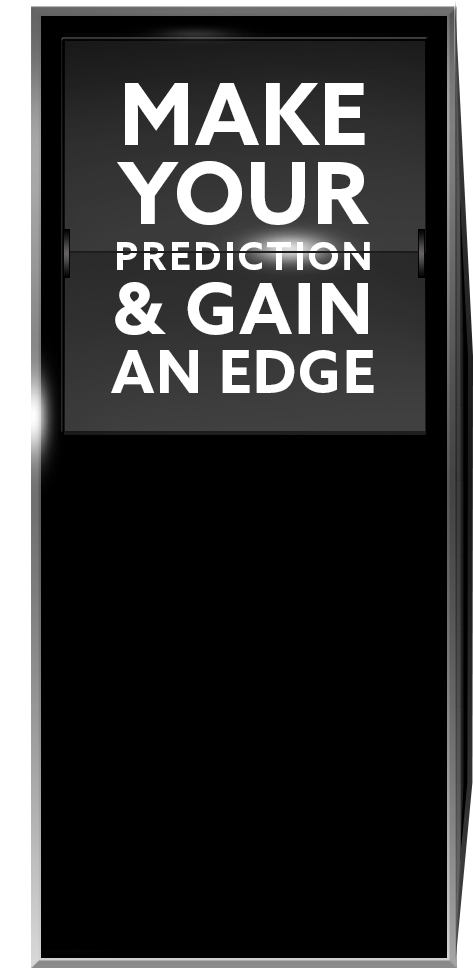
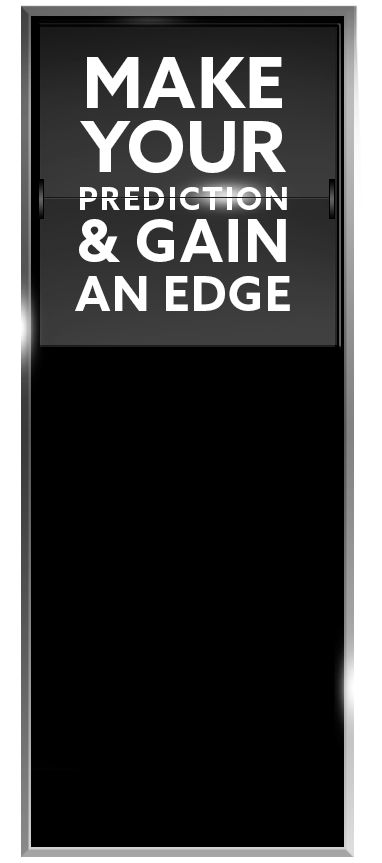
updated the featured blog section

Changed region(s): [[0.0576, 0.0, 1.0, 0.9942]]

diff --git a/themes/TCL2016/style.css b/themes/TCL2016/style.css
@@ -371,27 +371,6 @@ video {
   background-color: #084bbb;
 }
 
-
-@media (max-width: 800px) {
-  .top-panel{
-    height: 1274px;
-  }
-  .top-panel .scoreboard-container {
-    max-width: 473px;
-    height: 974px;
-    background: url("img/mobile-scoreboard-with-text.png") no-repeat center center;
-  }
-  .top-panel .scoreboard-container .widget-container {
-    max-width: 300px;
-    height: 480px;
-    background: url("img/widget-screenshot.jpg") no-repeat center center;
-    margin: 0 auto;
-    position: relative;
-    top: 453px;
-    float: none;
-  }
-}
-
 .top-panel .scroll-down-arrow-container {
   width: 138px;
   height: 50px;
@@ -440,13 +419,21 @@ video {
   max-width: 700px;
   margin: 0 auto;
 }
+.featured-slider .copy button {
+  margin: 0;
+}
+.featured-slider .copy button:hover {
+  background-color: #1e4887;
+}
 .featured-slider .slide-image{
   float: left;
+  height: 100%;
 }
 .featured-slider .copy {
-  height: 100px;
+  height: 100%;
   position: relative;
   right: 0;
+
 }
 .featured-slider .copy h2 {
   font-size: 49px;
@@ -455,6 +442,7 @@ video {
   letter-spacing: -1px !important;
   font-family: "azo-sans-bold","Montserrat","Helvetica Neue",Helvetica,sans-serif;
   margin-bottom: 30px;
+  text-align: left;
   /*color: #3d3d3d;*/
 }
 .featured-slider .copy p {
@@ -462,30 +450,32 @@ video {
   font-family: "azo-sans-web","Montserrat","Helvetica Neue",Helvetica,sans-serif; 
   /*line-height: 20px;*/
   margin-bottom: 30px;
+  text-align: left;
   /*color: #3d3d3d;*/
 }
 .featured-slider .slide-container.slide-01{
-  max-width: 1010px;
-  margin-top: 80px;
+  max-width: 1169px;
+  margin-top: 30px;
   overflow: auto;
 }
 .featured-slider .slide-container.slide-01 .slide-image {
   width: 60%;
   float: left;
+  margin-left: -70px;
 }
 .featured-slider .slide-container.slide-01 .slide-image img{
   width: 100%;
   height: auto;
   float: left;
+  
 }
 .featured-slider .slide-container.slide-01 .copy{
   width: 40%;
   float: right;
+  margin-right: 70px;
+  margin-top: 70px;
 }
 
-.featured-slider .slide-container.slide-02 {
-
-}
 .featured-slider .slide-container.slide-02 .slide-image {
   margin-right: 20px;
 }
@@ -504,14 +494,15 @@ video {
 }
 .featured-slider .slide-container.slide-02 .app-icons a {
   float: left;
-}
-.featured-slider .slide-container.slide-02 .app-icons a:first-child{
-  margin-right: 5px;
+  margin-left: 10px;
 }
 .featured-slider .slide-container.slide-02 .copy{
   margin-top: 90px;
   float: right;
   width: 60%;
+}
+.featured-slider .slide-container.slide-02 .copy h2 {
+  font-size: 70px;
 }
 
 .featured-slider .slide-container.slide-03 {
@@ -520,6 +511,10 @@ video {
 .featured-slider .slide-container.slide-03 .copy{
   width: 50%;
   float: left;
+}
+.featured-slider .slide-container.slide-03 .copy h2 {
+  font-size: 70px;
+  line-height: 63px;
 }
 .featured-slider .slide-container.slide-03 .slide-image {
   float: right;
@@ -545,6 +540,133 @@ video {
   margin-right: 15px;
 }
 
+
+@media (max-width: 768px) {
+  .top-panel{
+    height: 1274px;
+  }
+  .top-panel .scoreboard-container {
+    max-width: 382px;
+    height: 863px;
+    background: url("img/mobile-scoreboard-with-text.png") no-repeat center center;
+    top: 10%;
+  }
+  .top-panel .scoreboard-container .widget-container {
+    max-width: 300px;
+    height: 480px;
+    background: url("img/widget-screenshot.jpg") no-repeat center center;
+    margin: 0 auto;
+    position: relative;
+    top: 358px;
+    float: none;
+    left: -3px;
+  }
+  .slide-container {
+    max-width: 70%;
+    margin: 0 auto;
+  }
+  .featured-slider {
+    margin: 50px auto;
+  }
+  .featured-slider .copy button {
+    margin: 0 auto;
+  }
+  .featured-slider .slide-image{
+    float: none;
+    height: 100%;
+  }
+  .featured-slider .copy {
+    height: 100px;
+    position: relative;
+    right: 0;
+    text-align: center;
+    height: 100%;
+  }
+  .featured-slider .copy h2 {
+    font-size: 30px;
+    line-height: 40px;
+    text-align: center;
+    margin-bottom: 10px;
+  }
+  .featured-slider .copy p{
+    text-align: center;
+  }
+  .featured-slider .slide-container.slide-01{
+    max-width: 70%;
+    margin-top: 0;
+    overflow: visible;
+  }
+  .featured-slider .slide-container.slide-01 .slide-image {
+    width: 140%;
+    float: none;
+    margin-left: -18%;
+  }
+  .featured-slider .slide-container.slide-01 .slide-image img{
+    width: 100%;
+    height: auto;
+    float: left;
+    
+  }
+  .featured-slider .slide-container.slide-01 .copy{
+    width: 100%;
+    float: none;
+    margin-right: 0;
+    margin-top: 0;
+  }
+  .featured-slider .slide-container.slide-02 .slide-image {
+    margin-right: 0;
+    margin-right: 0;
+    height: 230px;
+  }
+  .featured-slider .slide-container.slide-02 .slide-image img {
+    margin: 0 auto;
+    height: 100%;
+  }
+  .featured-slider .slide-container.slide-02 .app-icons {
+    width: 220px;
+    margin: 0 auto;
+  }
+  .featured-slider .slide-container.slide-02 .app-icons h2 {
+    
+  }
+  .featured-slider .slide-container.slide-02 .app-icons a {
+    float: left;
+    margin-right: 10px;
+  }
+  .featured-slider .slide-container.slide-02 .copy{
+    margin-top: 10px;
+    float: left;
+    width: 100%;
+  }
+  .featured-slider .slide-container.slide-02 .copy h2 {
+    font-size: 40px;
+  }
+
+  .tabs-container {
+    display: none;
+  }
+  .featured-slider .slide-container.slide-03 {
+    margin-top: 0px;
+  }
+  .featured-slider .slide-container.slide-03 .copy{
+    width: 100%;
+    float: 0;
+  }
+  .featured-slider .slide-container.slide-03 .copy h2 {
+    font-size: 40px;
+    line-height: 45px;
+  }
+  .featured-slider .slide-container.slide-03 .slide-image {
+    float: none;
+    margin: 0 auto;
+    height: 230px;
+  }
+  .featured-slider .slide-container.slide-03 .slide-image img {
+     height: 100%;
+     margin: 0 auto;
+  }
+
+}
 
 .tabs-container {
   background-color: rgba(167, 167, 167, .1);
@@ -581,14 +703,22 @@ video {
 
 .blog-title {
   background-color: rgba(167, 167, 167, .1);
+  cursor: pointer;
+}
+.blog-title:hover {
+  background: rgba(167, 167, 167, 0.4);
 }
 .blog-title h3 {
+  text-align: center;
+}
+.blog-title h3 a {
   text-align: center;
   font-size: 10px;
   color: #a7a7a7;
   margin: 0;
   letter-spacing: 0 !important;
   font-family: "azo-sans-bold","Montserrat","Helvetica Neue",Helvetica,sans-serif;
+  line-height: 0;
 }
 .latest-posts .slick-track {
   background-color: black;
@@ -616,8 +746,11 @@ video {
 .latest-posts .post .content .post-info {
   background-color: #2d65b8;
   color: white;
-  padding: 10px;
+  padding: 24px;
   height: 274px;
+}
+.latest-posts .post .content .post-info h2 {
+  margin-top: 0;
 }
 .latest-posts .post .content .post-info h2 a {
   color: white;
@@ -625,7 +758,7 @@ video {
 }
 .latest-posts .post .content .post-info .date-title {
   position: absolute;
-  bottom: 10px;
+  bottom: 24px;
 }
 .latest-posts .post.slick-current, .latest-posts .post:hover {
   opacity: 1;
@@ -1850,6 +1983,7 @@ body.blog #footer-background{
 }
 #footer .left-col .footer-nav .nav, #footer .left-col .footer-nav .nav li {
   float: none;
+  text-align: left;
 }
 #footer .left-col .footer-nav .nav li{
   padding: 5px 0;

diff --git a/themes/TCL2016/js/tcl2016.js b/themes/TCL2016/js/tcl2016.js
@@ -1,7 +1,7 @@
 ( function ($) {
     console.log('loading child functions');
     var windowWidth = $(window).width();
-    var breakpoint = 800;
+    var breakpoint = 768;
   
 
     if(windowWidth > breakpoint) {
@@ -117,6 +117,11 @@
           }
         ]
       });
+
+      $('featured-slider .slick-arrow').on('click focus mouseup touchend', function(){
+        console.log('no more focus');
+        $(this).css('background-image', 'img/arrow-left.png');
+      })
 
     });
 } )( jQuery )

diff --git a/themes/TCL2016/homepage-2016.php b/themes/TCL2016/homepage-2016.php
@@ -114,7 +114,7 @@ Template Name: - TCL Homepage 2016
 </div>
 
 <!-- Latest Posts -->
-<div class="blog-title"><h3>From the Blog</h3>
+<div class="blog-title"><h3><a href="/blog">From the Blog</a></h3>
 <div class="latest-posts">
 	<?php
 	query_posts( 'posts_per_page=12' );
